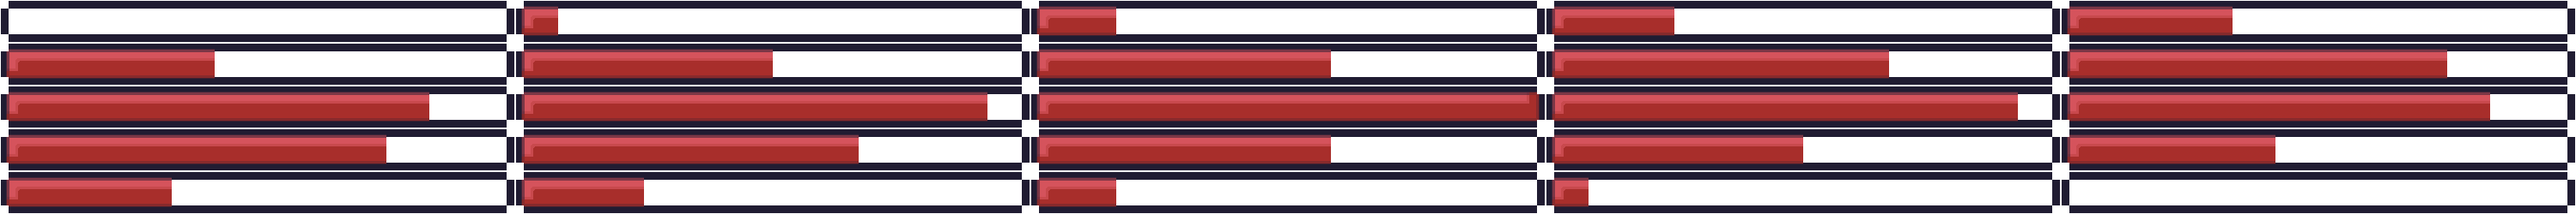
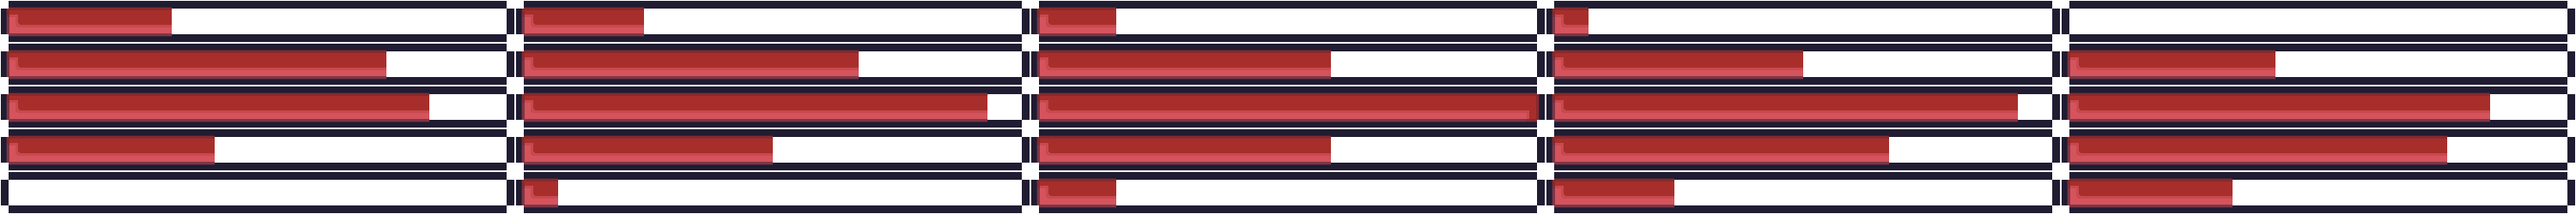
스크롤링 좌표에 맞게 수정함

diff --git a/source/object/hitter.py b/source/object/hitter.py
@@ -68,8 +68,9 @@ class Idle:
 
     @staticmethod
     def draw(hitter):
-        hitter.image.clip_draw(hitter.frame * 100, (hitter.action + hitter.team_color) * 100, 100, 100, hitter.pos[0],
-                               hitter.pos[1], 100 * 3, 100 * 3)
+        sx, sy = hitter.pos[0] - server.background.window_left, hitter.pos[1] - server.background.window_bottom
+        hitter.image.clip_draw(hitter.frame * 100, (hitter.action + hitter.team_color) * 100, 100, 100, sx,
+                               sy)
 
 
 class Hit:
@@ -128,8 +129,9 @@ class Hit:
 
     @staticmethod
     def draw(hitter):
-        hitter.image.clip_draw(hitter.frame * 50, (hitter.action + hitter.team_color) * 50, 50, 50, hitter.pos[0],
-                               hitter.pos[1])
+        sx, sy = hitter.pos[0] - server.background.window_left, hitter.pos[1] - server.background.window_bottom
+        hitter.image.clip_draw(hitter.frame * 100, (hitter.action + hitter.team_color) * 100, 100, 100, sx,
+                               sy)
 
 
 class HitAndRun:
@@ -176,8 +178,9 @@ class HitAndRun:
 
     @staticmethod
     def draw(hitter):
-        hitter.image.clip_draw(hitter.frame * 50, (hitter.action + hitter.team_color) * 50, 50, 50, hitter.pos[0],
-                               hitter.pos[1])
+        sx, sy = hitter.pos[0] - server.background.window_left, hitter.pos[1] - server.background.window_bottom
+        hitter.image.clip_draw(hitter.frame * 100, (hitter.action + hitter.team_color) * 100, 100, 100, sx,
+                               sy)
 
 
 class Run:
@@ -223,8 +226,9 @@ class Run:
 
     @staticmethod
     def draw(hitter):
-        hitter.image.clip_draw(hitter.frame * 50, (hitter.action + hitter.team_color) * 50, 50, 50, hitter.pos[0],
-                               hitter.pos[1])
+        sx, sy = hitter.pos[0] - server.background.window_left, hitter.pos[1] - server.background.window_bottom
+        hitter.image.clip_draw(hitter.frame * 100, (hitter.action + hitter.team_color) * 100, 100, 100, sx,
+                               sy)
 
 
 class RunDefence:
@@ -268,8 +272,9 @@ class RunDefence:
 
     @staticmethod
     def draw(hitter):
-        hitter.image.clip_draw(hitter.frame * 50, (hitter.action + hitter.team_color) * 50, 50, 50, hitter.pos[0],
-                               hitter.pos[1])
+        sx, sy = hitter.pos[0] - server.background.window_left, hitter.pos[1] - server.background.window_bottom
+        hitter.image.clip_draw(hitter.frame * 100, (hitter.action + hitter.team_color) * 100, 100, 100, sx,
+                               sy)
 
 
 class RunPosition:
@@ -308,8 +313,9 @@ class RunPosition:
 
     @staticmethod
     def draw(hitter):
-        hitter.image.clip_draw(hitter.frame * 50, (hitter.action + hitter.team_color) * 50, 50, 50, hitter.pos[0],
-                               hitter.pos[1])
+        sx, sy = hitter.pos[0] - server.background.window_left, hitter.pos[1] - server.background.window_bottom
+        hitter.image.clip_draw(hitter.frame * 100, (hitter.action + hitter.team_color) * 100, 100, 100, sx,
+                               sy)
 
 
 ## 상태 머신 ##
@@ -471,7 +477,8 @@ class Hitter:
         draw_rectangle(*self.get_bb())
 
     def get_bb(self):
-        return self.pos[0] - 20, self.pos[1] - 30, self.pos[0] + 20, self.pos[1] + 30
+        sx, sy = self.pos[0] - server.background.window_left, self.pos[1] - server.background.window_bottom
+        return sx - 20, sy - 30, sx + 20, sy + 30
 
     def handle_collision(self, group, other):
         pass

diff --git a/source/object/ball.py b/source/object/ball.py
@@ -97,7 +97,8 @@ class Throw:
 
     @staticmethod
     def draw(my_ball):
-        my_ball.image.clip_draw(my_ball.frame * 50, 0, 50, 50, my_ball.pos[0], my_ball.pos[1], 20, 20)
+        sx, sy = my_ball.pos[0] - server.background.window_left, my_ball.pos[1] - server.background.window_bottom
+        my_ball.image.clip_draw(my_ball.frame * 50, 0, 50, 50, sx, sy, 20, 20)
 
 
 class Idle:
@@ -131,7 +132,7 @@ class Idle:
                 game_world.remove_object(hitter)
                 server.out_count += 1
                 if server.out_count == 3:
-                    game_framework.change_mode(mode_defence)
+                    game_framework.change_mode(defence_mode)
 
     @staticmethod
     def do(my_ball):
@@ -139,7 +140,8 @@ class Idle:
 
     @staticmethod
     def draw(my_ball):
-        my_ball.image.clip_draw(my_ball.frame * 50, 0, 50, 50, my_ball.pos[0], my_ball.pos[1], 20, 20)
+        sx, sy = my_ball.pos[0] - server.background.window_left, my_ball.pos[1] - server.background.window_bottom
+        my_ball.image.clip_draw(my_ball.frame * 50, 0, 50, 50, sx, sy, 20, 20)
 
 
 ## 상태 머신 ##
@@ -206,7 +208,8 @@ class Ball:
         draw_rectangle(*self.get_bb())
 
     def get_bb(self):
-        return self.pos[0] - 10, self.pos[1] - 10, self.pos[0] + 10, self.pos[1] + 10
+        sx, sy = self.pos[0] - server.background.window_left, self.pos[1] - server.background.window_bottom
+        return sx - 10, sy - 10, sx + 10, sy + 10
 
     def handle_collision(self, group, other):
         if self.is_collision is False:

diff --git a/source/object/background.py b/source/object/background.py
@@ -4,20 +4,21 @@ from pico2d import *
 class Background:
     def __init__(self):
         self.image = load_image('resource/image/background.png')
+
         self.cw = get_canvas_width()
         self.ch = get_canvas_height()
+
         self.w = self.image.w
         self.h = self.image.h
-        print(self.w, self.h)
-        print(self.cw, self.ch)
+
+        self.window_left = (self.image.w - self.cw) // 2
+        self.window_bottom = 0
 
     def update(self):
-        self.window_left = clamp(0, (self.w - self.cw) // 2, self.w - self.cw - 1)
-        self.window_bottom = clamp(0, (self.h - self.ch) // 2, self.h - self.ch - 1)
+        # ball의 위치에 연동되어 위치 스크롤링 될 것!!
+        pass
+        # self.window_left = clamp(0, (self.w - self.cw) // 2, self.w - self.cw - 1)
+        # self.window_bottom = clamp(0, (self.h - self.ch) // 2, self.h - self.ch - 1)
 
     def draw(self):
-        # self.image.clip_draw_to_origin(100, 0, self.cw // 2, self.ch // 2, 0, 0)
-        w, h = self.cw, self.ch
-        size = 2
-        self.image.clip_draw_to_origin(200 * size, 50, w, h, 0, 0, w * size, h * size)
-        # self.image.clip_draw_to_origin(self.window_left, self.window_bottom, self.cw, self.ch, 0, 0)
+        self.image.clip_draw_to_origin(self.window_left, self.window_bottom, self.cw, self.ch, 0, 0)

diff --git a/source/object/pitcher.py b/source/object/pitcher.py
@@ -31,8 +31,9 @@ class Idle:
 
     @staticmethod
     def draw(pitcher):
-        pitcher.image.clip_draw(pitcher.frame * 50, (pitcher.action + pitcher.team_color) * 50, 50, 50, pitcher.pos[0],
-                                pitcher.pos[1])
+        sx, sy = pitcher.pos[0] - server.background.window_left, pitcher.pos[1] - server.background.window_bottom
+        pitcher.image.clip_draw(pitcher.frame * 100, (pitcher.action + pitcher.team_color) * 100, 100, 100, sx,
+                                sy)
 
 
 class Throw:
@@ -62,8 +63,9 @@ class Throw:
 
     @staticmethod
     def draw(pitcher):
-        pitcher.image.clip_draw(pitcher.frame * 50, (pitcher.action + pitcher.team_color) * 50, 50, 50, pitcher.pos[0],
-                                pitcher.pos[1])
+        sx, sy = pitcher.pos[0] - server.background.window_left, pitcher.pos[1] - server.background.window_bottom
+        pitcher.image.clip_draw(pitcher.frame * 100, (pitcher.action + pitcher.team_color) * 100, 100, 100, sx,
+                                sy)
 
 
 ## 상태 머신 ##

diff --git a/source/object/base.py b/source/object/base.py
@@ -4,17 +4,17 @@ import game_world
 bases = []
 number_to_bases = {}
 
-mound = (400, 240)
-one_base = (600, 270)
-two_base = (400, 350)
-two_base_player = (470, 330)
-three_base = (200, 270)
-home = (400, 120)
-short = (330, 330)
-left = (100, 390)
-right = (700, 390)
-center = (400, 470)
-attack_zone = (370, 130)
+mound = (500, 240)
+one_base = (650, 300)
+two_base = (500, 380)
+two_base_player = (500 - 30, 380)
+three_base = (350, 300)
+home = (500, 120)
+short = (430, 380)
+left = (250, 580)
+right = (750, 580)
+center = (500, 700)
+attack_zone = (470, 150)
 ball = None
 
 # 현재 위치 : 다음 베이스, 현재 베이스에 player가 있는지, 전 베이스

diff --git a/source/object/ui.py b/source/object/ui.py
@@ -1,0 +1,22 @@
+from pico2d import load_image
+
+import server
+
+
+class UI:
+    image = None
+
+    def __init__(self):
+        self.frame = 0
+        self.action = 0
+        if UI.image is None:
+            UI.image = load_image('resource/image/progress_bar.png')
+
+    def update(self):
+        self.frame = self.frame + 1
+        if self.frame == 5:
+            self.action = (self.action + 1) % 5
+            self.frame = 0
+
+    def draw(self):
+        self.image.clip_draw(self.frame * 600, self.action * 50, 600, 50, 400, 50)

diff --git a/source/mode/attack_mode.py b/source/mode/attack_mode.py
@@ -6,6 +6,7 @@ import game_world
 
 import module.make_team as make_team
 import object.background as background
+import object.ui as ui
 import object.ball as ball
 import object.base as base
 
@@ -60,6 +61,9 @@ def init():
         game_world.add_collision_pair('ball:defender', None, defender)
         game_world.add_collision_pair('base:defender', None, defender)
     game_world.add_collision_pair('base:defender', None, server.defence_team[1])
+
+    progress_bar = ui.UI()
+    game_world.add_object(progress_bar, 3)
 
 
 def update():
